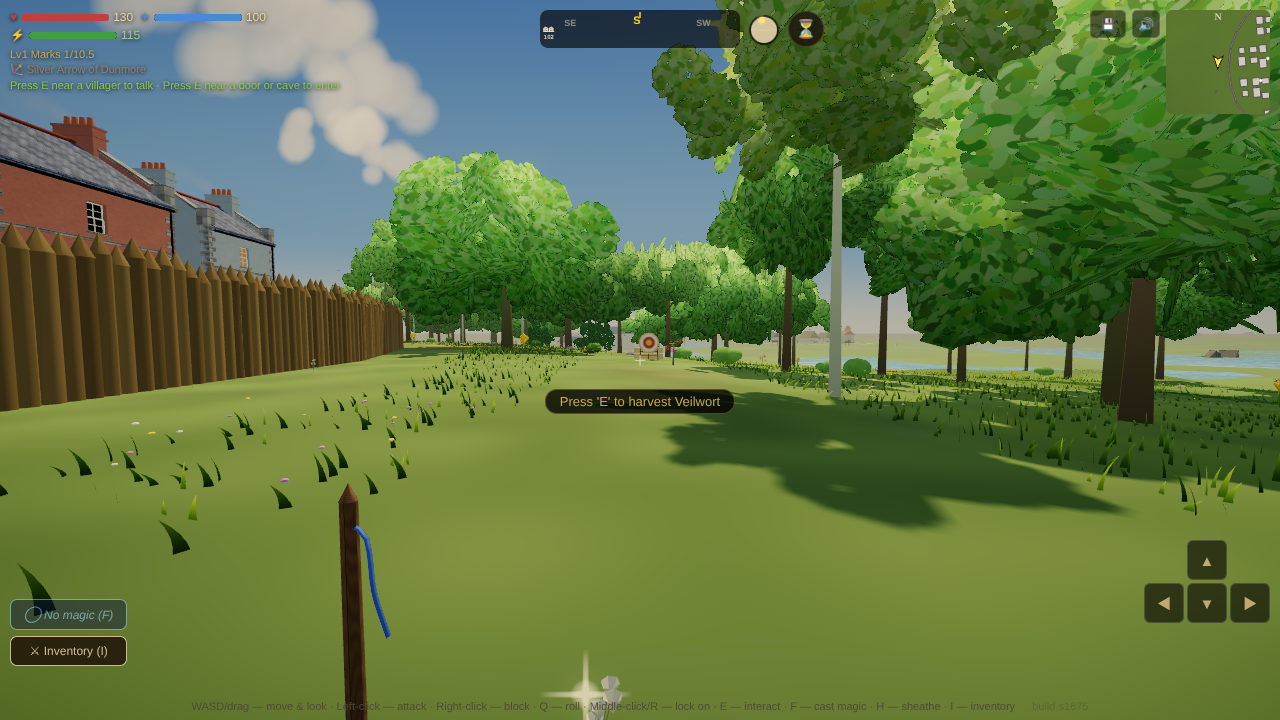
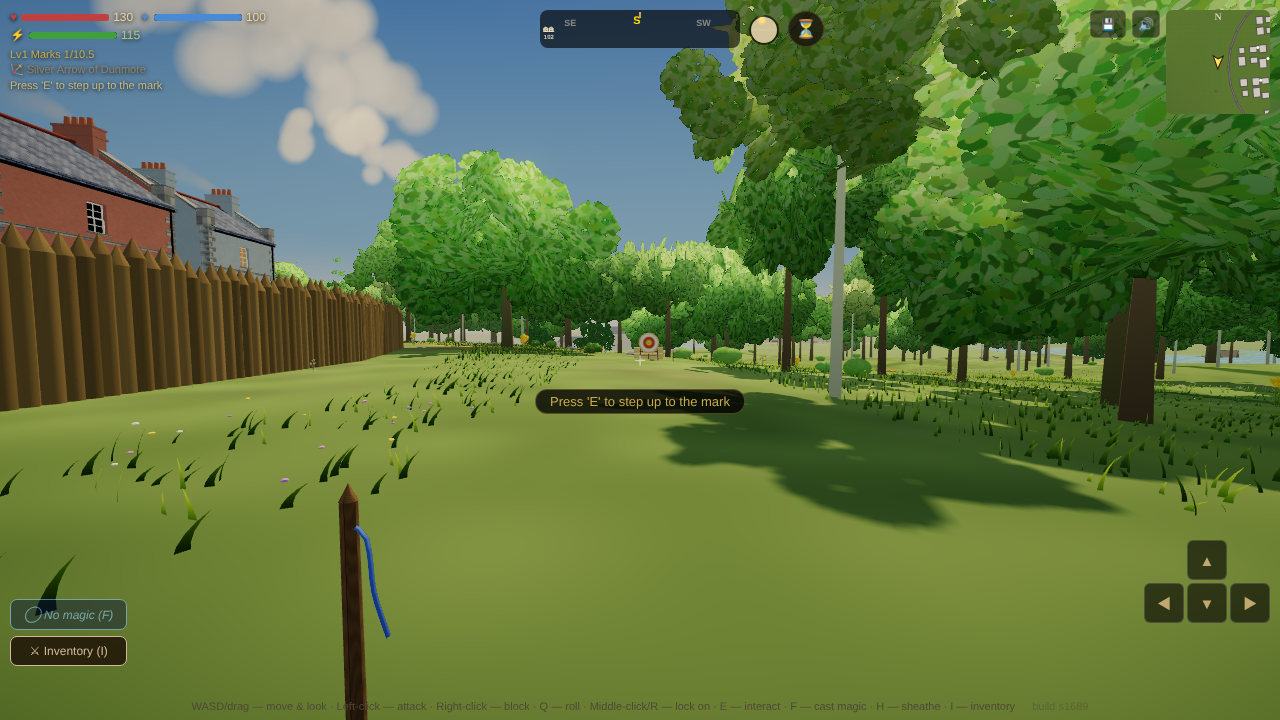
Look S2354: no herbs on the butts' lane (onButtsLane, dropHerbsOnPad for a lane's clearing)
Claude-Session: https://claude.ai/code/session_019eFMMnM6t1PXemJ8g8n3KM

diff --git a/js/82-world-structures.js b/js/82-world-structures.js
@@ -446,8 +446,10 @@
   function buttsLaneShow(site,on){const s=typeof site==='string'?site:site&&site.id,S=s&&SETTLE.get(s);if(S&&S.butts&&S.butts.butt)S.butts.butt.visible=!!on;}
   // the lane's clearing: noFlat stamps down its middle, so the scatter stands no tree or rock on it and the ground is worn as a mown lane is
   function buttsLaneStamps(c,k){const out=[];for(const t of c.sites){const L=buttsLane(t,c);if(!L)continue;
-      for(let v=-BUTTS_BACK;v<=BUTTS_LEN-BUTTS_BACK+.01;v+=5)out.push(addStamp({id:`${L.id}_${Math.round(v)}`,kind:'door',noFlat:true,butts:true,x:L.x+L.dx*v,z:L.z+L.dz*v,r:3.8,blend:1,y:0,cell:k}));}
+      for(let v=-BUTTS_BACK;v<=BUTTS_LEN-BUTTS_BACK+.01;v+=5){const st=addStamp({id:`${L.id}_${Math.round(v)}`,kind:'door',noFlat:true,butts:true,x:L.x+L.dx*v,z:L.z+L.dz*v,r:3.8,blend:1,y:0,cell:k});out.push(st);dropHerbsOnPad(st);}}
     return out;}
+  /* S2354 — no herb grows on the lane: the scatter's okSpot asks this (a lane's stamp may sit under a site's or another's, so stampAt's first is not enough) */
+  function onButtsLane(x,z){const arr=stampsNear(x,z);for(let i=0;i<arr.length;i++){const s=arr[i];if(s.butts&&Math.hypot(x-s.x,z-s.z)<s.r)return true;}return false;}
   // S1473 (card F6, Michael's C on #744, its second half) — the farms alone in the country: in a Gatelands cell on the new look, one
   // (one cell in three, two) beside the cell's own roads between its places, each on a road of its own, the house to the road as a
   // village's farm stands. Each stands at least LONE_GAP farther from every pad than a village's farm may, and as far from another lone
@@ -2285,7 +2287,7 @@
   // floor (the critic, 2 Nov). Stamping a pad now takes away the scatter's herbs already inside it, so what grows on a pad no longer
   // depends on what loaded first. A herb bed (h.bed) and a site's own herbs (a glade's, ids by the site) are not the scatter's and stay.
   function dropHerbsOnPad(s){
-    if(!s||s.kind!=='site'||!ZONES.world||!ZONES.world.herbs)return 0;const R=s.r-6;if(R<=0)return 0;const L=ZONES.world.herbs;let n=0;
+    if(!s||!(s.kind==='site'||s.butts)||!ZONES.world||!ZONES.world.herbs)return 0;const R=s.butts?s.r:s.r-6; /* S2354 — and a butts lane's clearing, all of it */if(R<=0)return 0;const L=ZONES.world.herbs;let n=0;
     for(let i=L.length-1;i>=0;i--){const h=L[i];if(h.bed||!/^-?\d+,-?\d+:(herb|verge|hot):\d+$/.test(h.id)||Math.hypot(h.x-s.x,h.z-s.z)>=R)continue;
       L.splice(i,1);h.offPad=true;h.g.visible=false;if(h.gl)h.gl.intensity=0;if(h.inst)syncHerbInstance(h);n++;}
     return n;
@@ -2301,7 +2303,7 @@
     let n=Math.floor((8+hash01(ch.cx,ch.cz,120)*8)*dens); // v80 — denser: 8–16 a chunk before the biome factor
     // S514 — each herb is <chunk>:herb|verge|hot:<i>, the placing try that put it (co-op rules), so a spot refused on one machine moves no other's id
     const put=(hx,hz,type,k)=>{const def=HERB_DEF[type];if(!def)return false;const g=new THREE.Group();g.position.set(hx,worldH(hx,hz),hz);const gl={intensity:0,parent:null};const h={id:ch.cx+','+ch.cz+':'+k,x:hx,z:hz,type,def,g,gl,harvested:false,respawnT:0,ph:Math.random()*Math.PI*2};ZONES.world.herbs.push(h);ch.herbs.push(h);return true;};
-    const okSpot=(hx,hz)=>{if(solidAt(hx,hz))return false;const ri=roadInfo(hx,hz);if(ri&&ri.d<ROAD_HALF+1.2)return false;const st=stampAt(hx,hz);if(st&&st.kind==='site'&&Math.hypot(hx-st.x,hz-st.z)<st.r-6)return false;return true;};
+    const okSpot=(hx,hz)=>{if(solidAt(hx,hz))return false;const ri=roadInfo(hx,hz);if(ri&&ri.d<ROAD_HALF+1.2)return false;const st=stampAt(hx,hz);if(st&&st.kind==='site'&&Math.hypot(hx-st.x,hz-st.z)<st.r-6)return false;if(onButtsLane(hx,hz))return false;return true;};
     let placed=0;
     for(let i=0;i<n*3&&placed<n;i++){
       const hx=ch.cx*CHUNK+3+hash01(ch.cx+i,ch.cz,121)*(CHUNK-6),hz=ch.cz*CHUNK+3+hash01(ch.cz,ch.cx+i,122)*(CHUNK-6);

diff --git a/docs/backlog.md b/docs/backlog.md
@@ -839,7 +839,7 @@ Michael marked all 96 images of the intake on the review page: 63 KEEP and 33 NO
 - **The adventurer's kit** (systems; OG-098): a use for each thing carried: a pack (capacity), a bedroll and a tent (rest anywhere, and safely outdoors), a weather cloak, boots for rough ground, a waterskin, a mess kit (cooking for buffs); rope and a grappling hook (reach, with the platforming page), a shovel (dig sites and buried loot), a pickaxe (ore and barriers), a climbing axe (cold cliffs); a sextant and a spyglass at sea; a skinning knife, a sickle, a rod and a net; a cipher disk, and a Gate Shard that wakes old mechanisms. A variant of the kit for each island. The emblems drawn are the generator's; the canon's colours stand. **Proposal, 13 Nov 2026** (the designer; `docs/design/adventurers-kit.md`): most of the sheet is built (the pick, hatchet, joiner's kit, shovel, knife, mess kit, bedrolls, tent, vessels, cloaks); A a pack (2 kg, 40 gold: the first 20 kg of tools and goods weigh nothing, never armour or weapons, the heavy roll past 10 kg; looks by island) and a *Kit* tab; B that plus a spyglass (ships read to 800 m, towns and gates *sighted* to 1,000 m, never the places off the road), a rod and a net (recommended); C B plus wear and footing. Rope, the grapple, the climbing axe, the cipher disk, the Gate Shard, the sextant and the sickle not proposed, with reasons. Asked as a DECISION. Michael: **B** (#1504, 14 Nov). ~~The pack and the Kit tab~~ — **done, Session 2213** (`packItem`, `packCarried`, `rollLoad`, `renderKitList`; `tests/roll`). ~~The rod~~ — **done, Session 2214** (`ROD_ITEM`, `rodSpot`, `rodCast`, `rodStrike`, `tickRod`; `tests/fishseed`). ~~The net~~ — **done, Session 2215** (`NET_ITEM`, `deckSchool`, `netHaul`, `worldState.netted`; `tests/fishseed`). ~~The pack on the player's back~~ — **done, Session 2217** (people.js's `buildBackpack`: the creel, the birch frame, the saddle-roll by island; `tpPackKind`; `backpack.check`, `tests/f10body`). ~~The rod's cast~~ — **done, Session 2224** (the kit's `rod`, `WORK_TOOL.rod`, `ROD_FX`: drawn back, flicked, held at 35°, the line to a float on the spot; `tests/f10body`). ~~The net's cast~~ — **done, Session 2225** (`NET_FX`: a purse seine of corks and a 1.4 m curtain laid round 3 m off you, pursed and lifted on the haul; hands bare on the rope, `tpNetArms`; `tests/f10body`). ~~The spyglass~~ — **done, Session 2234** (`GLASS_ITEM`, `glassRaise`, `glassLook`, `glassCard`, `sightPlace`, `worldState.sighted`, the map's pencil; `tests/fishseed`). ~~The glass raised~~ — **done, Session 2236** (the kit's `glass`, a three-draw brass tube 0.77 m; `WORK_TOOL.glass`, `GLASS_FX`, `tpGlassArms`, `tpGlassHeld`, `tpGlassCam`: both hands hold it to the right eye along the view, the third-person camera comes to the eye as it comes up, the view model hidden in first person; `tests/f10body`). ~~The look's three props~~ — **done, Session 2237** (in the goods shop that sells them: the rods' rack at every goods shop and the net hung at a harbour's, each by a side wall clear of windows, `goodsKitDress`, `goodsWallFlat` (84), `rodRack`, `hungNet` (56); the glass shut on a harbour's counter, `counterGlass`; `tests/fishseed`). ~~The pack on a traveller~~ — **done, Session 2239** (`HB_PACK_ROLE`, `hbRolePack`: a coaching inn's travellers, and any travelling merchant, scholar, pedlar or pilgrim, carry their island's pack by the nation they stand in, as yours does; the cast keep their sheet; `tests/coachinn`).
 
 ### L9. Culture and daily life (the second and third rounds)
-- **Festivals on the calendar** (systems and quest writer; OG-107; with the calendar's market days and feasts): three festivals an island, each in its month: the Greening (a maypole spring feast), Riverfair (a summer fair on the rivers), the Night of the Lanterns (October, lanterns let go for those who never came back from the gates, close to the canon); Midwinter fires, a fair of boat races and duels, a First Snow rite under the aurora; a festival of learning, a spice caravan, lamps set afloat. Everyday life to fill the towns: stalls, a smith at work, a temple service, wrestling and archery, a harbour gathering. The Mark's fair is run by captains and reeves, not jarls and a thane; “many gods” belongs to the Gatelands' old faith, not the Church. **Drafted:** *Festivals on the Calendar, I* (quest writer, 21 Oct, unapproved; `docs/quest_drafts.md`, on the page as `festivals-1`): all nine named and dated, each on its god's day (the Greening Sowing 3, Riverfair Haysel 18, the Night of the Lanterns Leaffall 26; the Mark's Blaze, Strait Fair and First Snow; Aurenne's Commencement, Caravan and Lamps on the Water), and the Gatelands' three written in full: greetings by people, a ribbon, a cup for the sea, a lantern. The rules it asks are small (a festival fills the square as a feast does, by the town's nation; nothing free). Owed: ~~the Mark's three (run 2)~~ — **drafted 23 Oct** (*Festivals on the Calendar, II*, `festivals-2`: the Blaze, the Strait Fair, First Snow, unapproved; no priest leads any of them; once approved, the look builder's bonfire, ring rope and First Snow's fires, and the systems builder's fight in the Fair's ring, to a yield); ~~Aurenne's three (run 3)~~ — **drafted 25 Oct** (*Festivals on the Calendar, III*, `festivals-3`: the Commencement's reading and the scholars' purse, the Caravan's first bale, the Lamps on the Water's ledger, unapproved; once approved, the look builder's bursar's table, caravan string and lamps on the ebb); for the look builder once approved, the dressed pole and the rising lanterns. **Prototype (concept artist, 13 Nov 2026):** the Gatelands' three on one green in the new look, as A the custom alone, B the green dressed, C the town dressed (`docs/prototypes/levelup/festivals.html`, `festivals.js`'s props in metres; `docs/concepts.md`); ready to ask, four decisions waiting. **Proposal, 16 Nov 2026** (the designer; `docs/design/festivals.md`): what a festival does. A the custom alone (the drafts' frame: `FESTIVALS`, `festivalOn`, the square, one act a year a town; two systems sessions); B that plus a contest at each island's fair (Riverfair's butts for Bow, the Strait Fair's three bouts to a yield for Hand-to-hand, the Commencement's disputation by books read or Speech; a purse of 40 + 20 a tier, a keepsake and +1 to the skill once a year) and a town that keeps its festival as its year allows (full, thin or not kept by prosperity and flags; named for the player who saved it); five systems sessions, one look, one quest-writer run (recommended); C B plus a market (double road traffic, foreign stalls, the feasts' rules, a festival you pay for). Asked as a DECISION. **Michael's B on #1628** (16 Nov 2026). Building, five systems sessions: ~~1, the nine on the calendar and the town's state~~ — done, Session 2313 (`FESTIVALS`, `festivalOn`, `nextFestival`, `festivalHere` in `60-shop.js`; `festivalState` in `87-world-quests.js`: none, thin, full or named; the greeting, the square and the *Due* line; First Snow on its fallback, Culling 28); ~~2, the butts~~ — done, Session 2314 (`buttsStart`, `buttsLoose`, `buttsCross`, `tickButts`, `buttsEnd` in `87-world-quests.js`: three ends of three at 30/50/70 m, rings 5/3/1, three rivals seeded by site and year with `BUTT_SPREAD`, a win 40 + 20 a tier, a silver arrow, +1 Bow once a year; one try a town a year; the straw boss a placeholder, nothing in the world calls it yet: owed the look builder's butts and mark and the quest writer's marshal); ~~3, the ring's three~~ — done, Session 2315 (`fairRingStart`, `fairRingEnd`, `tickFairRing`: three quarrels in a row, fists, each the bout to a yield, the brawl's fighter at the town's tier; a win 40 + 20 a tier, the reeve's iron ring, +1 Hand-to-hand once a year; one try a town a year; owed the rope and the reeve's words); ~~4, the disputation~~ — done, Session 2319 (`dispStart`, `dispAnswer`, `dispEnd`, `tickDisp`, `dispTopics`: three of the nine books draft IV names, seeded by site and year; a read book answers, or Speech at 40/55/70; two of three win 40 + 20 a tier, the scholar's seal, +1 Speech once a year; one try a town a year; owed the table and the examiners' words); 5, the post and the town's memory (with the acts, `worldState.festivals`, First Snow's night read from the snow, and the lines for a thin, unkept or named festival, owed to the quest writer): ~~the post and the town's memory~~ — done, Session 2320 (`festCrown`, `festChampion`, `festChampionNow`, `festPostNames`: a contest's champion a town and year, yours when you win, else a name of the town's people seeded by site and year, in `worldState.festChampions`, the world's; owed the post's look and the town's words), ~~First Snow's night~~ — done, Session 2321 (`tickFirstSnow`, `firstSnowLies`, `worldState.firstSnow`: snow seen lying at 18:00 in a Markish town in Culling before the 28th moves its night there; `festivalHere` reads it); the acts: ~~the Greening's ribbon and Riverfair's cup~~ — done, Session 2324 (`festAct`, `festActHere`: at the green's middle and the town's water at noon, once a town a year as `worldState.festivals[key].act`; the Gatelander's thanks and the lord's Greening line); ~~the lantern~~ — done, Session 2325 (`tickLanterns`, `lanternSend`: the lanternmaker on the square 18:00–22:00, two gold or given, *For me* for nothing, the last lantern's line and the next day's word); ~~the Blaze's log~~ — done, Session 2326 (`festNightHere`, `festNightGreeting`, `tickBlazeLight`: 17:00 to first light at the square's middle, the reeve's line, the Markman's word, first light's line); ~~the alehall's lines~~ — done, Session 2330 (`alehallFestLine`, `firstSnowNight`: the keeper's Blaze day till 17:00; First Snow's night, 18:00 to first light, no places, a place taken holds); still to build: the priest at the water, First Snow's sitting up, the wager, and Aurenne's acts (draft II's wager needs a key other than the ring's `straitfair:`). **The contests' words drafted** (the quest writer, 17 Nov: *Festivals on the Calendar, IV*, unapproved): the butts' marshal by people, the ring's ringkeeper, the three's quarrels and the reeve, the Commencement's examiners and their nine questions on books the game holds; ~~review run 49's Findings 52–54 (the ring's fighters' names, its thin year's reason, the contests' hours) apply now, without a decision.~~ — done, Session 2318. The lines for a thin, unkept or named festival's other days are the next run's. **The contest grounds drawn** (the look builder, Session 2317, prototype; `docs/prototypes/levelup/contests.js`, `contests.html`, `contests.check.mjs`): the butt (a straw boss with a painted face at the game's rings, its middle at `BUTT_Y`, 440 triangles), bales, the mark and range pegs, and the ring's ten stakes and two ropes on `FAIR_R` (2,405 triangles), checked against `js/87-world-quests.js`'s numbers; where and when they stand asked as **DECISION #1672** (A: the butts all year outside a Gatelands town, the ring on a Markish square on its morning, recommended). Michael's A on #1672 (16 Nov). ~~The butts into the game~~ — **done, Session 2331** (new look): every Gatelands town, village, city and port lays a 76 m lane off its pad and away from its roads, chosen from the cells alone (`buttsLane`, 82; 151 of 177 places), cleared of the scatter (`buttsLaneStamps`), with the mark, the pegs and the butt and bales at 30 m (`PKIT.props.butts`/`.butt`, `kitButts`); `buttsStart` with no mark shoots down the town's own lane with the kit's butt (`tests/butts`). Owed: the herbs still grow on the lane; ~~the Strait Fair's ring on a Markish square on its morning~~ — **done, Session 2333** (new look): `PKIT.props.ring` on the ground as it lies, placed on the square of every Markish place that keeps the fair (off the roads, then over the street, then outside the walls; `S.fair`), shown from 5:00 to noon on the fair's day in a town keeping it full or named and while a bout runs (`fairRingLive`); `fairRingStart` with no middle fights in it (`tests/fairring`); the 26 places with no lane keep none. ~~The butts on E~~ — **done, Session 2337**: on Riverfair, within 2.5 m of the lane's mark, *Press 'E' to step up to the mark* calls `buttsStart({site})` and shows its refusal (`buttsPrompt`, `buttsInteract`, 87; `tests/butts` +2); the marshal's words wait on draft IV. ~~First Snow's sitting up~~ — **done, Session 2338** (draft II §4): from 18:00 on the square, *Press 'E' to sit with them till first light* is the Wait to 6:00, the log at first light, once a winter, and a Markman's word the next day (`festSitUp`, 87; `feasts` +2). ~~Still owed of the Mark's: the wager on the boats.~~ — **done, Session 2339** (draft II §3): a Markman at the town's water on the Strait Fair from 5:00 till noon (the sea quay's foot, the river quay's, else the square), *A bet on the boats.* at 2 gold from 5:00 to 7:00, the race seeded by site and year, told from 8:00, a win paying 6 (`wagerPlace`, `wagerHear`, `tickWager`, 87; `feasts` +2); inland it is the ringkeeper's once the ring stands. ~~Aurenne's Caravan~~ — **done, Session 2340** (draft III §3): the caravan-master on the square from 6:00 to 18:00, three topics, *A pinch of saffron* at 2 gold once a year (*A twist of saffron*, the log), the Factor's day line, an Aurennais's word the next day (`caravanPinch`, `tickCaravan`, 87; `feasts` +2). ~~The Commencement's subscription~~ — **done, Session 2341** (draft III §2: the bursar on the square 9:00–12:00, *A subscription* at 2 gold three ways in the bursar's people's voice, the roll read at noon on the square, an Aurennais's word the next day; `bursarSubscribe`, `tickBursar`; `feasts` +2). ~~The reading at ten and the lords' lines~~ — **done, Session 2342** (`commAdmitted`, `commReadLine`, `FEST_LORD_LINE.commencement`/`.lamps`; `feasts` +1). ~~The Lamps on the Water~~ — **done, Session 2347** (draft III §4: the lampseller 17:00–22:00 at the quay's foot or on the square, *A lamp* at 2 gold four ways, the ledger at 18:00–18:30 with 0–2 hulls struck, an Aurennais's word the next day; `lampSet`, `tickLamps`; `feasts` +3); ~~the Strait Fair's ring on E~~ — **done, Session 2346** (`fairRingPrompt`, `fairRingInteract`; `fairring` +2); ~~the hours that lasted a minute~~ — **fixed, Session 2348** (Riverfair's cup, the last lantern, the Blaze's first light). Owed of draft III: the trader's lines, the occupied town's lines. ~~The bursar's table and the caravan's first bale and scale (the look builder's, draft III)~~ — **done, Session 2351** (new look): a cedar table of Aurenne's rooms 0.75 m in front of each keeper's spot toward the square's middle, the keeper behind it, in every Aurennais place; the bursar's under an indigo cloth with the subscription book open, ink, quill and a dish of coins (436 triangles, 7 draws), the caravan-master's with a brass hand balance, the threads in a dish and the weights, and the first bale opened on the ground beside it with two more stacked (1,012 triangles, 6 draws, nothing solid); slid up to 0.9 m along its length off a solid; shown with its keeper (`bursarOn`, `caravanOn`; `festStallsLive`, 83; `PKIT.props.bursar`, `.saffron`, 38; `tests/feaststalls`). Owed: the caravan's string (beasts, the bodies builder's). **The lamps on the ebb, prototyped, Session 2352** (`docs/prototypes/levelup/lamps.js`, `lamps.html`, `lamps.check.mjs`): the clay lamp on its board (320 triangles) and the ebb's line at the game's hours (a lamp every 20 s, 2.4 m apart), in a harbour at dusk, three ways: A the flames alone, B a glow on the water and its reflection under each (recommended), C a real light each; asked as **DECISION #1699**.
+- **Festivals on the calendar** (systems and quest writer; OG-107; with the calendar's market days and feasts): three festivals an island, each in its month: the Greening (a maypole spring feast), Riverfair (a summer fair on the rivers), the Night of the Lanterns (October, lanterns let go for those who never came back from the gates, close to the canon); Midwinter fires, a fair of boat races and duels, a First Snow rite under the aurora; a festival of learning, a spice caravan, lamps set afloat. Everyday life to fill the towns: stalls, a smith at work, a temple service, wrestling and archery, a harbour gathering. The Mark's fair is run by captains and reeves, not jarls and a thane; “many gods” belongs to the Gatelands' old faith, not the Church. **Drafted:** *Festivals on the Calendar, I* (quest writer, 21 Oct, unapproved; `docs/quest_drafts.md`, on the page as `festivals-1`): all nine named and dated, each on its god's day (the Greening Sowing 3, Riverfair Haysel 18, the Night of the Lanterns Leaffall 26; the Mark's Blaze, Strait Fair and First Snow; Aurenne's Commencement, Caravan and Lamps on the Water), and the Gatelands' three written in full: greetings by people, a ribbon, a cup for the sea, a lantern. The rules it asks are small (a festival fills the square as a feast does, by the town's nation; nothing free). Owed: ~~the Mark's three (run 2)~~ — **drafted 23 Oct** (*Festivals on the Calendar, II*, `festivals-2`: the Blaze, the Strait Fair, First Snow, unapproved; no priest leads any of them; once approved, the look builder's bonfire, ring rope and First Snow's fires, and the systems builder's fight in the Fair's ring, to a yield); ~~Aurenne's three (run 3)~~ — **drafted 25 Oct** (*Festivals on the Calendar, III*, `festivals-3`: the Commencement's reading and the scholars' purse, the Caravan's first bale, the Lamps on the Water's ledger, unapproved; once approved, the look builder's bursar's table, caravan string and lamps on the ebb); for the look builder once approved, the dressed pole and the rising lanterns. **Prototype (concept artist, 13 Nov 2026):** the Gatelands' three on one green in the new look, as A the custom alone, B the green dressed, C the town dressed (`docs/prototypes/levelup/festivals.html`, `festivals.js`'s props in metres; `docs/concepts.md`); ready to ask, four decisions waiting. **Proposal, 16 Nov 2026** (the designer; `docs/design/festivals.md`): what a festival does. A the custom alone (the drafts' frame: `FESTIVALS`, `festivalOn`, the square, one act a year a town; two systems sessions); B that plus a contest at each island's fair (Riverfair's butts for Bow, the Strait Fair's three bouts to a yield for Hand-to-hand, the Commencement's disputation by books read or Speech; a purse of 40 + 20 a tier, a keepsake and +1 to the skill once a year) and a town that keeps its festival as its year allows (full, thin or not kept by prosperity and flags; named for the player who saved it); five systems sessions, one look, one quest-writer run (recommended); C B plus a market (double road traffic, foreign stalls, the feasts' rules, a festival you pay for). Asked as a DECISION. **Michael's B on #1628** (16 Nov 2026). Building, five systems sessions: ~~1, the nine on the calendar and the town's state~~ — done, Session 2313 (`FESTIVALS`, `festivalOn`, `nextFestival`, `festivalHere` in `60-shop.js`; `festivalState` in `87-world-quests.js`: none, thin, full or named; the greeting, the square and the *Due* line; First Snow on its fallback, Culling 28); ~~2, the butts~~ — done, Session 2314 (`buttsStart`, `buttsLoose`, `buttsCross`, `tickButts`, `buttsEnd` in `87-world-quests.js`: three ends of three at 30/50/70 m, rings 5/3/1, three rivals seeded by site and year with `BUTT_SPREAD`, a win 40 + 20 a tier, a silver arrow, +1 Bow once a year; one try a town a year; the straw boss a placeholder, nothing in the world calls it yet: owed the look builder's butts and mark and the quest writer's marshal); ~~3, the ring's three~~ — done, Session 2315 (`fairRingStart`, `fairRingEnd`, `tickFairRing`: three quarrels in a row, fists, each the bout to a yield, the brawl's fighter at the town's tier; a win 40 + 20 a tier, the reeve's iron ring, +1 Hand-to-hand once a year; one try a town a year; owed the rope and the reeve's words); ~~4, the disputation~~ — done, Session 2319 (`dispStart`, `dispAnswer`, `dispEnd`, `tickDisp`, `dispTopics`: three of the nine books draft IV names, seeded by site and year; a read book answers, or Speech at 40/55/70; two of three win 40 + 20 a tier, the scholar's seal, +1 Speech once a year; one try a town a year; owed the table and the examiners' words); 5, the post and the town's memory (with the acts, `worldState.festivals`, First Snow's night read from the snow, and the lines for a thin, unkept or named festival, owed to the quest writer): ~~the post and the town's memory~~ — done, Session 2320 (`festCrown`, `festChampion`, `festChampionNow`, `festPostNames`: a contest's champion a town and year, yours when you win, else a name of the town's people seeded by site and year, in `worldState.festChampions`, the world's; owed the post's look and the town's words), ~~First Snow's night~~ — done, Session 2321 (`tickFirstSnow`, `firstSnowLies`, `worldState.firstSnow`: snow seen lying at 18:00 in a Markish town in Culling before the 28th moves its night there; `festivalHere` reads it); the acts: ~~the Greening's ribbon and Riverfair's cup~~ — done, Session 2324 (`festAct`, `festActHere`: at the green's middle and the town's water at noon, once a town a year as `worldState.festivals[key].act`; the Gatelander's thanks and the lord's Greening line); ~~the lantern~~ — done, Session 2325 (`tickLanterns`, `lanternSend`: the lanternmaker on the square 18:00–22:00, two gold or given, *For me* for nothing, the last lantern's line and the next day's word); ~~the Blaze's log~~ — done, Session 2326 (`festNightHere`, `festNightGreeting`, `tickBlazeLight`: 17:00 to first light at the square's middle, the reeve's line, the Markman's word, first light's line); ~~the alehall's lines~~ — done, Session 2330 (`alehallFestLine`, `firstSnowNight`: the keeper's Blaze day till 17:00; First Snow's night, 18:00 to first light, no places, a place taken holds); still to build: the priest at the water, First Snow's sitting up, the wager, and Aurenne's acts (draft II's wager needs a key other than the ring's `straitfair:`). **The contests' words drafted** (the quest writer, 17 Nov: *Festivals on the Calendar, IV*, unapproved): the butts' marshal by people, the ring's ringkeeper, the three's quarrels and the reeve, the Commencement's examiners and their nine questions on books the game holds; ~~review run 49's Findings 52–54 (the ring's fighters' names, its thin year's reason, the contests' hours) apply now, without a decision.~~ — done, Session 2318. The lines for a thin, unkept or named festival's other days are the next run's. **The contest grounds drawn** (the look builder, Session 2317, prototype; `docs/prototypes/levelup/contests.js`, `contests.html`, `contests.check.mjs`): the butt (a straw boss with a painted face at the game's rings, its middle at `BUTT_Y`, 440 triangles), bales, the mark and range pegs, and the ring's ten stakes and two ropes on `FAIR_R` (2,405 triangles), checked against `js/87-world-quests.js`'s numbers; where and when they stand asked as **DECISION #1672** (A: the butts all year outside a Gatelands town, the ring on a Markish square on its morning, recommended). Michael's A on #1672 (16 Nov). ~~The butts into the game~~ — **done, Session 2331** (new look): every Gatelands town, village, city and port lays a 76 m lane off its pad and away from its roads, chosen from the cells alone (`buttsLane`, 82; 151 of 177 places), cleared of the scatter (`buttsLaneStamps`), with the mark, the pegs and the butt and bales at 30 m (`PKIT.props.butts`/`.butt`, `kitButts`); `buttsStart` with no mark shoots down the town's own lane with the kit's butt (`tests/butts`). Owed: ~~the herbs still grow on the lane~~ — **fixed, Session 2354** (the scatter's `okSpot` refuses a lane's clearing, `onButtsLane`, 82, and stamping a lane takes off the herbs a chunk grew before it, `dropHerbsOnPad`; Dunmore's lane held 3 on main, 0 now; `butts` +1); ~~the Strait Fair's ring on a Markish square on its morning~~ — **done, Session 2333** (new look): `PKIT.props.ring` on the ground as it lies, placed on the square of every Markish place that keeps the fair (off the roads, then over the street, then outside the walls; `S.fair`), shown from 5:00 to noon on the fair's day in a town keeping it full or named and while a bout runs (`fairRingLive`); `fairRingStart` with no middle fights in it (`tests/fairring`); the 26 places with no lane keep none. ~~The butts on E~~ — **done, Session 2337**: on Riverfair, within 2.5 m of the lane's mark, *Press 'E' to step up to the mark* calls `buttsStart({site})` and shows its refusal (`buttsPrompt`, `buttsInteract`, 87; `tests/butts` +2); the marshal's words wait on draft IV. ~~First Snow's sitting up~~ — **done, Session 2338** (draft II §4): from 18:00 on the square, *Press 'E' to sit with them till first light* is the Wait to 6:00, the log at first light, once a winter, and a Markman's word the next day (`festSitUp`, 87; `feasts` +2). ~~Still owed of the Mark's: the wager on the boats.~~ — **done, Session 2339** (draft II §3): a Markman at the town's water on the Strait Fair from 5:00 till noon (the sea quay's foot, the river quay's, else the square), *A bet on the boats.* at 2 gold from 5:00 to 7:00, the race seeded by site and year, told from 8:00, a win paying 6 (`wagerPlace`, `wagerHear`, `tickWager`, 87; `feasts` +2); inland it is the ringkeeper's once the ring stands. ~~Aurenne's Caravan~~ — **done, Session 2340** (draft III §3): the caravan-master on the square from 6:00 to 18:00, three topics, *A pinch of saffron* at 2 gold once a year (*A twist of saffron*, the log), the Factor's day line, an Aurennais's word the next day (`caravanPinch`, `tickCaravan`, 87; `feasts` +2). ~~The Commencement's subscription~~ — **done, Session 2341** (draft III §2: the bursar on the square 9:00–12:00, *A subscription* at 2 gold three ways in the bursar's people's voice, the roll read at noon on the square, an Aurennais's word the next day; `bursarSubscribe`, `tickBursar`; `feasts` +2). ~~The reading at ten and the lords' lines~~ — **done, Session 2342** (`commAdmitted`, `commReadLine`, `FEST_LORD_LINE.commencement`/`.lamps`; `feasts` +1). ~~The Lamps on the Water~~ — **done, Session 2347** (draft III §4: the lampseller 17:00–22:00 at the quay's foot or on the square, *A lamp* at 2 gold four ways, the ledger at 18:00–18:30 with 0–2 hulls struck, an Aurennais's word the next day; `lampSet`, `tickLamps`; `feasts` +3); ~~the Strait Fair's ring on E~~ — **done, Session 2346** (`fairRingPrompt`, `fairRingInteract`; `fairring` +2); ~~the hours that lasted a minute~~ — **fixed, Session 2348** (Riverfair's cup, the last lantern, the Blaze's first light). Owed of draft III: the trader's lines, the occupied town's lines. ~~The bursar's table and the caravan's first bale and scale (the look builder's, draft III)~~ — **done, Session 2351** (new look): a cedar table of Aurenne's rooms 0.75 m in front of each keeper's spot toward the square's middle, the keeper behind it, in every Aurennais place; the bursar's under an indigo cloth with the subscription book open, ink, quill and a dish of coins (436 triangles, 7 draws), the caravan-master's with a brass hand balance, the threads in a dish and the weights, and the first bale opened on the ground beside it with two more stacked (1,012 triangles, 6 draws, nothing solid); slid up to 0.9 m along its length off a solid; shown with its keeper (`bursarOn`, `caravanOn`; `festStallsLive`, 83; `PKIT.props.bursar`, `.saffron`, 38; `tests/feaststalls`). Owed: the caravan's string (beasts, the bodies builder's). **The lamps on the ebb, prototyped, Session 2352** (`docs/prototypes/levelup/lamps.js`, `lamps.html`, `lamps.check.mjs`): the clay lamp on its board (320 triangles) and the ebb's line at the game's hours (a lamp every 20 s, 2.4 m apart), in a harbour at dusk, three ways: A the flames alone, B a glow on the water and its reflection under each (recommended), C a real light each; asked as **DECISION #1699**.
 - **Three inns** (look builder, interiors; OG-108): a Gatelander inn round its hearth, a Markish longhouse of long tables, an Aurennais tavern on a terrace over the sea. With L5's interiors by nation. **Begun, Session 893 (card F9, prototype):** the Gatelander inn, `gatelandsInn` inside the kit's farmhouse (its front door `ajar`), `rooms.html?room=inn`: a taproom round the west gable's hearth with a settle, the bar and its kegs across the back wall, two tables with benches, a stair up the east gable, three guest rooms off a passage upstairs; `rooms.check.mjs` 34 of 34; the shell and the rooms asked as **DECISION #320**. **The Mark's inn, Session 894 (prototype):** `markAlehall` inside `markHall` widened to 10 by 18 m, `rooms.html?room=alehall`: a long hearth under the louver, two long tables of 12.6 m between the posts with loose benches, furred wall benches to eat and sleep on, the counter and kegs across the back, a rack of spears and round shields by the door; `rooms.check.mjs` 40 of 40; where guests sleep and the size asked as **DECISION #321**. **Aurenne's tavern, Session 895 (prototype):** `aurenneTavern` inside the Roman Aurennais house with its arcade, `rooms.html?room=tavern`: a tiled room with the counter, amphorae and the cooking bench; two tables in the loggia; a paved terrace of 4 m to a parapet on the quay wall, three tables under a vine; `rooms.check.mjs` 46 of 46; the house and the shade asked as **DECISION #322**. The three inns are drawn; each waits on its decision. **Into the game, begun, Session 1157 (card F9):** the Gatelander taproom (#320's 2 A) copied into `js/38-kit.js` as `PKIT.gl.inn(o, r)`, the prototype's own triangles and vertices for four keys (`tests/kitinnroom`); ~~hung inside the village inn on `?look=new`~~ — done, Session 1161: a Gatelands village inn on three bays is the taproom inside (`buildKitTaproom`, `tests/kittaproom`). ~~A two-bay inn's taproom~~ — done, Session 1276 (`gatelandsInn`'s `o.bays`, prototype and kit: one table, two rooms, the door in the west bay; `house._exitX`, `intDoorX`). ~~Still owed: a coaching inn's taproom (it keeps the old room).~~ — done, Session 1368 (below). **The coaching inn's own room, Session 1351 (prototype; OG-108):** `gatelandsCoachRoom` inside the coaching inn's own front (`gatelandsCoachInnPlan`), `rooms.html?room=coach`: one taproom with the open hearth under the west stack, the bar across the back wall, three tables and the coach passengers' corner at the east grate; the townhouse's dog-leg stair in its own well; a corridor across each upper floor, eight rooms to let (or five with the first floor's front as the coffee room, `first: 'long'`), the garret behind; `rooms.check.mjs`'s seven new checks; asked as **DECISION #660**. Into the game once answered. **The Mark's alehall copied into the game's kit, Session 1159** (#321 A; `PKIT.mk.alehall`, `tests/kitalehall`); ~~its hanging in a Markish inn~~ — done, Session 1288 (OG-108; the inn's lot the kit's hall outside, up to 10 by 18 m, `lot.kit.alehall`; `buildKitAlehall` inside at 10 by 18, six places 0–5 on the wall benches, the benches 0.40 high to step onto; `tests/alehallroom`). **The keeper's words for a bench, Session 1285** (#588 A, the quest writer): `INN_BENCH_LINES.markman`, the greeting `INN_BENCH_GREET`, six places named by `innBenchName` (0–2 the left bench and 3–5 the right, as you come in, each counted door, middle, counter), the bed prompts and the lapse line. They switch on when `innBench(house)` is true, which reads `house.kit.alehall`: the look builder sets `alehall:true` on the inn's `lot.kit` at planning (before `makeDef` gives the keeper a greeting) and gives the bench's beds `owner:'inn'` and `room` 0–5 in that order. **Aurenne's tavern copied into the game's kit, Session 1167** (#322 A; `PKIT.au.tavern`, with Aurenne's house `PKIT.au.house` and its surfaces, `tests/kittavern`); its hanging waits on Aurenne's lots coming into the game. **Rooms to let, Session 1296 (prototype):** as drawn the tavern has one storey and no beds, while the Aurennais keeper lets "a room … up the stairs" (`INN_ROOM_LINES.aurennais`); `aurenneTavern({ rooms: true })`, `rooms.html?room=tavern&rooms=1`, is the house two storeys high, a stair of 16 risers up the west wall, a passage along the back upstairs and three rooms off it, a bed, a chest and a basin in each; `rooms.check.mjs`'s five new checks; asked as **DECISION #602** (rooms upstairs or the words changed, and every Aurennais inn or the ports only). ~~The hanging~~ — **done, Session 1320** (#602: 1 A, 2 B; OG-108): on the new look an Aurennais port's first inn is the tavern with its rooms on its own lot across the quay head from the shipwright (`site.tavernLot`, a pad under the house, `kitAurTavern`), its terrace out over the water on a quay wall and its gate (`o.gate`) toward the town; inside `buildKitTavern`, three rooms upstairs behind doors that open and shut (`o.leaves:false`), room 0 the west; `tests/taverninn`. Inland inns and a port's second inn keep the old building. **Session 1307 (prototype, the critic's walk of 1296):** the upper flight is open beneath on a solid base of seven treads, two oil jars stored under it; the well is framed by cedar trimmers and lit by a bracket lamp on the west wall; the shell's west ground window, which the flight ran across, is raised to a stair light over the treads (`aurenneHouse`'s `o.stairWin`); the pendant lamp hangs over the left table, 2.06 m clear; a new view, `view=well`, from the stair's foot. **The coaching inn's room in the game, Session 1368 (Michael's A on #660; OG-108):** `PKIT.gl.coachRoom` (rooms.js's, three rooms across the first floor's front), `buildKitCoachRoom` for a Gatelands town's coaching inn on the new look: the taproom, the dog-leg stair up two storeys, eight rooms behind doors, the innkeeper's eight names by floor and side (`COACH_ROOM_NAMES`, `innRooms` 8); `tests/kitcoachroom`. **Not yet as #303's 1 A asks:** every room, the taproom included, still loads as its own scene at the door; rooms inside the street's own shell with no load (the indoor flag, world-space solids, the light) is a cross-cutting change for a deep-work card.
 - **Music and players by island** (systems for `76-music.js`, the look builder for the players; OG-112): each island its own band: fiddle, whistle, bodhrán, harp and lute; tagelharpa, war horn, frame drum, bowed lyre and bone flute; oud, qanun, ney, riq and santur. ~~**The bands in the music**~~ — **done, Session 1901** (`ISLAND_BAND`, `musicIsland`: the island you stand on when a piece starts plays its lead, arpeggio, counter-line, bells and drum; the pieces, pad, bass and choir shared; `combatmusic` +4). Owed: the players. Musicians among the townsfolk with an instrument held and a pose of their own; a storyteller by a fire telling of the Old Gates, a skald in the longhouse, travelling players with a wagon, tavern musicians.
 - **The six gods' shrines, dressed by island** (look builder for the dressings, systems for `87-world-quests.js`' shrines; OG-113, the closest sheet to the canon yet): one common niche for each god (a robed figure, a candle, a basin; a wolf for Na Beithígh) with the Guest's seventh niche beside it, its figure chiselled away. The Gatelands' shrines whitewashed, ribboned and tended beside holy wells, with ring-stones and high crosses; the Mark's roofed timber shrines with a lamp always lit, and oath stones; Aurenne's plastered, fenced and regulated, domed churches, tithe-ships with Priors aboard. People: a lamp-keeper, a Church clerk, an Old Blood rubbing-seller, a hereditary gate-keeper, mourners with a bier, a funeral that ends at a gate (the Clearing, §3.1). Objects: the six icons, rubbings, offerings, a tithe box. Not the Mark's “clans and lords” (captains and reeves) or a priest as mayor (Elders). **The row at the town church, Session 1172 (prototype; Michael's C on #439 and his note, “in or near churches?”):** `shrines-church.html?place=back|side|square|all`, the Gatelands' west-tower church (#410 B) on its #433 B plot with the row of seven three ways: A behind the chancel in the plot as laid (1.34 m to the eaves), B along the yard's long side with the yard 2 → 4.5 m (recommended), C free-standing on the square beside the tower door; `shrines.js`'s `row(island, {yard:true})` drops the row's own wall, well, thorn, cross and ring-stone in a churchyard (21.9k tris against 32.6k); `shrines-church.check.mjs` 24 of 24; asked as **DECISION #464**. The page needs #393's `gatelandsChurch` to run.

diff --git a/docs/devlog/2354.md b/docs/devlog/2354.md
@@ -1,0 +1,27 @@
+## v80 — Session 2354 — no herbs on the butts' lane
+The run's first session. No section I item names the look builder and DECISION #1699 (the lamps) is unanswered, so this takes the one
+small thing the festivals item still owes this lane on Riverfair's butts (Michael's A on #1672; Session 2331 laid the lane): "the herbs
+still grow on the lane". OG-107.
+
+**What was wrong.** Session 2331 clears the lane with sixteen `noFlat` stamps of 3.8 m down its 76 m (`buttsLaneStamps`, kind `door`,
+`butts:true`). The trees and rocks of the scatter honour them; the herb scatter does not. `spawnChunkHerbs`'s `okSpot` refuses only a
+`site` stamp's pad (less 6 m), and only the first stamp `stampAt` names. And a chunk of a neighbouring cell built before the lane's cell
+loaded has already placed its herbs, the same fault Session 1755 met at the cairn and fixed for pads alone. On main, standing in Dunmore
+with 41 lanes loaded, three herbs (two veilwort and a rowan) grow on Dunmore's lane, where the town shoots.
+
+**What changed** (`js/82-world-structures.js`):
+- `onButtsLane(x,z)`: true inside any lane stamp near the point (read from `stampsNear`, so a lane under a pad or another stamp still
+  counts). `okSpot` refuses it, so the scatter and a hotspot's cluster put nothing there.
+- `dropHerbsOnPad` now takes a lane's stamp as well as a site's, over its whole radius (a pad's is its radius less 6 m), and
+  `buttsLaneStamps` calls it as it stamps each clearing: herbs a chunk grew before the lane was laid are taken off, as a pad's are. A
+  bed and a site's own herbs are untouched, as before. The verge's herbs keep to within 3.2 m of a road and a lane is at least 9 m from one.
+No triangles change; no draws.
+
+### Verified (headless Chromium)
+- `butts` 1/1, 11 checks (+1): *no herb on the lane's 16 clearings (0 left; 4 grow within 12 m of it), and the scatter refuses 128 of
+  128 points on it*. The other ten unchanged (151 of 177 Gatelands places lay a lane; Dunmore's 842 triangles in 8 draws; nine arrows 45).
+- A throwaway count at Dunmore, the same boot on both: main 3 herbs on 1 of 41 loaded lanes; this branch 0.
+- `parsecheck` OK.
+
+### Needs eyes
+- Nothing visual beyond the lane reading as mown grass; the suite's picture (`docs/prototypes/kit-butts-lane.png`) is re-rendered.
